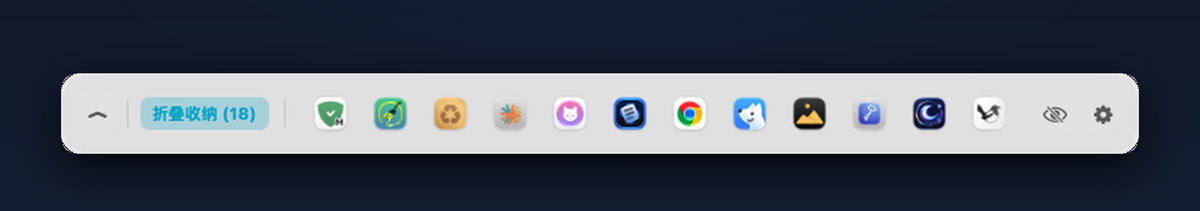
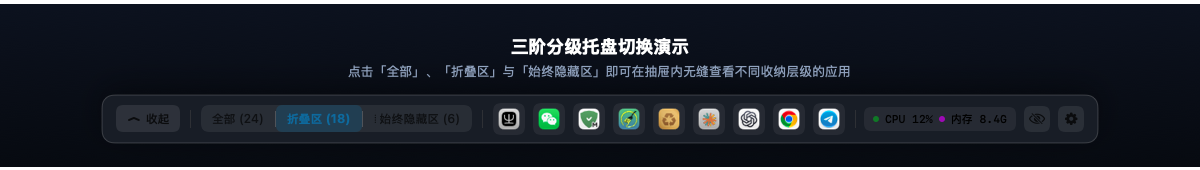
feat(barnest): accurately showcase 3-tier shelf switcher (All, Folded, Always Hidden) in visual guide

diff --git a/barnest/support.html b/barnest/support.html
@@ -73,15 +73,24 @@
             <p>BarNest lives directly in your menu bar. Simply hover your cursor over the nest divider arrow (<code>&lt;</code> or <code>&gt;</code>) to smoothly reveal hidden icons with fluid spring physics. Moving the cursor away collapses the drawer automatically. You can also press the global hotkey <kbd>⌥</kbd> <kbd>⌘</kbd> <kbd>B</kbd> at any time.</p>
             <figure class="guide-figure">
               <img src="images/guide-drawer-zoom.png" alt="BarNest Hover Drawer Unfolded" loading="lazy">
-              <figcaption>Floating drawer unfolded: Segmented tabs, organized icons, CPU/RAM monitor, and quick settings</figcaption>
+              <figcaption>Floating drawer unfolded: Integrated with All, Folded, and Always-Hidden segmented controller</figcaption>
             </figure>
           </article>
 
           <article class="guide-card">
             <span class="guide-badge">Step 2 · 3-Tier Hierarchy &amp; Shelf Tabs</span>
-            <h3>Categorize icons into Visible, Folded, and Always-Hidden</h3>
-            <p>Organize apps according to your workflow into three levels: <strong>Always Visible</strong> (stays on main status bar), <strong>Auto Hide / Folded</strong> (revealed on hover), and <strong>Always Hidden</strong> (tucked away into the deep drawer). Inside the drawer, switch between <code>[All]</code>, <code>[Folded]</code>, and <code>[Always Hidden]</code>, or press <kbd>⌥</kbd> <kbd>⇧</kbd> <kbd>⌘</kbd> <kbd>B</kbd> to toggle deep visibility.</p>
+            <h3>Seamlessly toggle between All, Folded, and Always-Hidden</h3>
+            <p>Organize apps according to your workflow into three distinct levels: <strong>Always Visible</strong> (stays on main status bar), <strong>Auto Hide / Folded</strong> (revealed on hover), and <strong>Always Hidden</strong> (tucked away into the deep drawer).</p>
+            <ul>
+              <li><strong>All (全部)</strong>: Aggregates and reveals all sheltered menu bar icons in one single place;</li>
+              <li><strong>Folded (折叠区)</strong>: Displays your frequently accessed hidden apps;</li>
+              <li><strong>Always Hidden (始终隐藏区)</strong>: Opens the isolated shelf for background daemons and low-frequency utilities, also accessible via <kbd>⌥</kbd> <kbd>⇧</kbd> <kbd>⌘</kbd> <kbd>B</kbd>.</li>
+            </ul>
             <figure class="guide-figure">
+              <img src="images/guide-shelf-tiers.png" alt="BarNest 3-Tier Shelf Switching Comparison" loading="lazy">
+              <figcaption>Real shelf tier switching: Tap All (24), Folded (18), or Always Hidden (6) to filter items dynamically</figcaption>
+            </figure>
+            <figure class="guide-figure" style="margin-top: 16px;">
               <img src="images/guide-preferences.png" alt="BarNest Preferences Icon Hierarchy" loading="lazy">
               <figcaption>Preferences Item Management: Assign items to Visible, Fold, or Hide with instant zero-flicker updates</figcaption>
             </figure>
@@ -154,15 +163,24 @@
             <p>BarNest 常驻在您的顶部状态栏中。将鼠标移动悬停在折叠箭头（<code>&lt;</code> 或 <code>&gt;</code>）上，隐藏图标立即随物理动效滑出；鼠标移开后自动隐匿。您也可以随时按下全局快捷键 <kbd>⌥</kbd> <kbd>⌘</kbd> <kbd>B</kbd> 极速呼出。</p>
             <figure class="guide-figure">
               <img src="images/guide-drawer-zoom-zh.png" alt="BarNest 悬停展开抽屉托盘示意图" loading="lazy">
-              <figcaption>悬浮抽屉原生展开态：包含分段标签、已收纳图标、CPU/内存监视与快速设置</figcaption>
+              <figcaption>原生悬浮抽屉展开态：完整集成「全部」、「折叠区」与「始终隐藏区」分段控制器</figcaption>
             </figure>
           </article>
 
           <article class="guide-card">
-            <span class="guide-badge">操作 2 · 三阶图标分级管理</span>
-            <h3>按需归类常驻、折叠收纳与始终隐藏</h3>
-            <p>根据您的使用习惯，将应用图标分为三级：<strong>常驻显示</strong>（留在主状态栏）、<strong>折叠收纳</strong>（随抽屉展开）与<strong>始终隐藏</strong>（沉淀于深层托盘，极少需要查看）。在展开抽屉托盘时，可直接点选 <code>[全部]</code>、<code>[折叠区]</code>、<code>[始终隐藏区]</code> 快速筛选，或按 <kbd>⌥</kbd> <kbd>⇧</kbd> <kbd>⌘</kbd> <kbd>B</kbd> 唤起深层托盘。</p>
+            <span class="guide-badge">操作 2 · 三阶图标分级与托盘切换</span>
+            <h3>自由切换「全部」、「折叠区」与「始终隐藏区」</h3>
+            <p>根据您的使用习惯，将应用图标分为三级：<strong>常驻显示</strong>（留在主状态栏）、<strong>折叠收纳</strong>（随抽屉展开）与<strong>始终隐藏</strong>（沉淀于深层托盘，极少需要查看）。</p>
+            <ul>
+              <li><strong>「全部」</strong>：聚合查看所有由 BarNest 纳管的收纳图标；</li>
+              <li><strong>「折叠区」</strong>：仅展示日常悬停展开的高频常用图标；</li>
+              <li><strong>「始终隐藏区」</strong>：直达深度隐藏的高级或后台静默工具，支持快捷键 <kbd>⌥</kbd> <kbd>⇧</kbd> <kbd>⌘</kbd> <kbd>B</kbd> 直接唤起。</li>
+            </ul>
             <figure class="guide-figure">
+              <img src="images/guide-shelf-tiers-zh.png" alt="BarNest 三阶分段切换实时效果演示" loading="lazy">
+              <figcaption>真实抽屉三段切换对比：点选「全部 (24)」、「折叠区 (18)」或「始终隐藏区 (6)」实时过滤对应应用</figcaption>
+            </figure>
+            <figure class="guide-figure" style="margin-top: 16px;">
               <img src="images/guide-preferences-zh.png" alt="BarNest 偏好设置分级管理示意图" loading="lazy">
               <figcaption>偏好设置图标管理：点选“常驻 / 折叠 / 隐藏”一键分级，零系统权限即刻生效</figcaption>
             </figure>
@@ -232,17 +250,17 @@
             <p>メニューバーの折りたたみ矢印（<code>&lt;</code> または <code>&gt;</code>）にカーソルを合わせるだけで、隠れたアイコンが滑らかに展開します。離れると自動収納。グローバルショートカット <kbd>⌥</kbd> <kbd>⌘</kbd> <kbd>B</kbd> でも瞬時に呼び出せます。</p>
             <figure class="guide-figure">
               <img src="images/guide-drawer-zoom.png" alt="BarNest ドロワー展開" loading="lazy">
-              <figcaption>展開されたフローティングドロワー：セグメント切り替え、CPU/メモリモニター、設定アイコン</figcaption>
+              <figcaption>展開されたフローティングドロワー：「すべて」「格納」「完全非表示」の3層切り替えに対応</figcaption>
             </figure>
           </article>
 
           <article class="guide-card">
-            <span class="guide-badge">操作 2 · 3階層のアイコン整理</span>
-            <h3>「常時表示」「自動格納」「完全非表示」に分類</h3>
-            <p>環境設定の「メニューバー項目」で各アプリの表示階層をワンクリックで設定可能。ドロワー内でもセグメントを切り替えて即座に目的のアイコンにアクセスできます。</p>
+            <span class="guide-badge">操作 2 · 3階層の切り替え</span>
+            <h3>「すべて」「折りたたみ」「完全非表示」を瞬時に切り替え</h3>
+            <p>ドロワー内でセグメントを切り替えて目的のアプリに素早くアクセス。環境設定で自由に各アプリの階層をカスタマイズできます。</p>
             <figure class="guide-figure">
-              <img src="images/guide-preferences.png" alt="BarNest 環境設定" loading="lazy">
-              <figcaption>環境設定：ワンクリックでアイコンの表示層をスマートに管理</figcaption>
+              <img src="images/guide-shelf-tiers.png" alt="BarNest 3階層切り替え" loading="lazy">
+              <figcaption>ドロワー内の3階層切り替え比較</figcaption>
             </figure>
           </article>
         </div>
@@ -282,17 +300,17 @@
             <p>메뉴 막대의 접기 아이콘(<code>&lt;</code> 또는 <code>&gt;</code>)에 마우스를 올리면 숨겨진 아이콘 서랍이 부드럽게 나타납니다. 언제든 글로벌 단축키 <kbd>⌥</kbd> <kbd>⌘</kbd> <kbd>B</kbd>로 빠르게 열고 닫을 수 있습니다.</p>
             <figure class="guide-figure">
               <img src="images/guide-drawer-zoom.png" alt="BarNest 서랍 펼침" loading="lazy">
-              <figcaption>플로팅 서랍 펼침 상태: 세그먼트 탭, 앱 아이콘, 시스템 리소스 모니터</figcaption>
+              <figcaption>플로팅 서랍 펼침: 전체(All), 접힘(Folded), 완전 숨김(Always Hidden) 3단계 탭 탑재</figcaption>
             </figure>
           </article>
 
           <article class="guide-card">
-            <span class="guide-badge">2단계 · 3단계 스마트 계층 분류</span>
-            <h3>항상 표시, 자동 접기, 완전 숨김</h3>
-            <p>환경설정에서 각 앱의 표시 계층을 손쉽게 설정하세요. 손쉬운 사용 권한 승인 없이도 즉각 안전하게 적용됩니다.</p>
+            <span class="guide-badge">2단계 · 3단계 스마트 계층 전환</span>
+            <h3>전체, 접기, 완전 숨김 영역 즉시 전환</h3>
+            <p>서랍 내에서 탭을 눌러 원하는 영역의 아이콘을 자유롭게 필터링하여 확인하세요.</p>
             <figure class="guide-figure">
-              <img src="images/guide-preferences.png" alt="BarNest 환경설정" loading="lazy">
-              <figcaption>환경설정: 3단계 계층 관리 및 노치 가림 방지</figcaption>
+              <img src="images/guide-shelf-tiers.png" alt="BarNest 3단계 전환 비교" loading="lazy">
+              <figcaption>서랍 내 3단계 계층 실시간 전환 비교</figcaption>
             </figure>
           </article>
         </div>
@@ -332,16 +350,16 @@
             <p>Fahren Sie mit der Maus über das Pfeilsymbol (<code>&lt;</code> oder <code>&gt;</code>) in der Menüleiste oder drücken Sie <kbd>⌥</kbd> <kbd>⌘</kbd> <kbd>B</kbd>, um versteckte Symbole sanft auszuklappen.</p>
             <figure class="guide-figure">
               <img src="images/guide-drawer-zoom.png" alt="BarNest Drawer" loading="lazy">
-              <figcaption>Schwebender Drawer mit Schnellübersicht und Systemmonitor</figcaption>
+              <figcaption>Schwebender Drawer mit 3-Stufen-Tabs: Alle, Ausgeblendet &amp; Dauerhaft versteckt</figcaption>
             </figure>
           </article>
           <article class="guide-card">
-            <span class="guide-badge">Schritt 2 · 3-Stufen-Hierarchie</span>
-            <h3>Symbole individuell organisieren</h3>
-            <p>Ordnen Sie Symbole in "Immer sichtbar", "Automatisch ausblenden" oder "Dauerhaft verstecken" ein.</p>
+            <span class="guide-badge">Schritt 2 · 3-Stufen-Hierarchie umschalten</span>
+            <h3>Einfaches Umschalten direkt im Drawer</h3>
+            <p>Wechseln Sie blitzschnell zwischen den verschiedenen Ebenen.</p>
             <figure class="guide-figure">
-              <img src="images/guide-preferences.png" alt="BarNest Einstellungen" loading="lazy">
-              <figcaption>Einstellungen: Intelligente Menüleistenverwaltung ohne Sonderberechtigungen</figcaption>
+              <img src="images/guide-shelf-tiers.png" alt="3-Stufen-Vergleich" loading="lazy">
+              <figcaption>Direkte Umschaltung der 3 Stufen im Drawer</figcaption>
             </figure>
           </article>
         </div>
@@ -381,16 +399,16 @@
             <p>Survolez la flèche (<code>&lt;</code> ou <code>&gt;</code>) ou appuyez sur <kbd>⌥</kbd> <kbd>⌘</kbd> <kbd>B</kbd> pour afficher instantanément vos icônes masquées.</p>
             <figure class="guide-figure">
               <img src="images/guide-drawer-zoom.png" alt="Tiroir BarNest" loading="lazy">
-              <figcaption>Tiroir flottant déplié : onglets, icônes rangées et moniteur système</figcaption>
+              <figcaption>Tiroir flottant : bascule immédiate entre Tous, Replié et Toujours masqué</figcaption>
             </figure>
           </article>
           <article class="guide-card">
             <span class="guide-badge">Étape 2 · Classement en 3 niveaux</span>
-            <h3>Visible, Masqué ou Toujours masqué</h3>
-            <p>Classez facilement vos applications dans les préférences sans aucune autorisation spéciale.</p>
+            <h3>Filtrage direct dans le tiroir</h3>
+            <p>Passez d'un niveau à l'autre en un seul clic.</p>
             <figure class="guide-figure">
-              <img src="images/guide-preferences.png" alt="Préférences BarNest" loading="lazy">
-              <figcaption>Préférences : organisation fluide des éléments de la barre de menus</figcaption>
+              <img src="images/guide-shelf-tiers.png" alt="Comparaison 3 niveaux" loading="lazy">
+              <figcaption>Comparaison en temps réel des 3 niveaux de classement</figcaption>
             </figure>
           </article>
         </div>
@@ -430,16 +448,16 @@
             <p>Pasa el puntero sobre la flecha (<code>&lt;</code> o <code>&gt;</code>) o pulsa <kbd>⌥</kbd> <kbd>⌘</kbd> <kbd>B</kbd> para ver los iconos ocultos al instante.</p>
             <figure class="guide-figure">
               <img src="images/guide-drawer-zoom.png" alt="Cajón flotante BarNest" loading="lazy">
-              <figcaption>Cajón desplegado con pestañas, iconos y monitor de recursos</figcaption>
+              <figcaption>Cajón con selector de 3 niveles: Todos, Plegados y Siempre ocultos</figcaption>
             </figure>
           </article>
           <article class="guide-card">
-            <span class="guide-badge">Paso 2 · Organización en 3 niveles</span>
-            <h3>Siempre visible, Ocultación y Siempre oculto</h3>
-            <p>Organiza tus aplicaciones favoritas desde Preferencias sin otorgar permisos especiales.</p>
+            <span class="guide-badge">Paso 2 · Organización y filtrado en 3 niveles</span>
+            <h3>Cambia de nivel con un solo toque</h3>
+            <p>Filtra instantáneamente los iconos directamente dentro del cajón.</p>
             <figure class="guide-figure">
-              <img src="images/guide-preferences.png" alt="Preferencias BarNest" loading="lazy">
-              <figcaption>Preferencias: Gestión rápida y segura de iconos en el sandbox de macOS</figcaption>
+              <img src="images/guide-shelf-tiers.png" alt="Comparativa de 3 niveles" loading="lazy">
+              <figcaption>Comparativa real de los 3 niveles dentro del cajón</figcaption>
             </figure>
           </article>
         </div>
@@ -479,16 +497,16 @@
             <p>Passe o mouse sobre a seta (<code>&lt;</code> ou <code>&gt;</code>) ou use <kbd>⌥</kbd> <kbd>⌘</kbd> <kbd>B</kbd> para abrir instantaneamente a gaveta de ícones.</p>
             <figure class="guide-figure">
               <img src="images/guide-drawer-zoom.png" alt="Gaveta BarNest" loading="lazy">
-              <figcaption>Gaveta flutuante expandida com abas e monitor de sistema</figcaption>
+              <figcaption>Gaveta flutuante com seletor de 3 níveis: Todos, Recolhidos e Sempre ocultos</figcaption>
             </figure>
           </article>
           <article class="guide-card">
-            <span class="guide-badge">Passo 2 · Hierarquia em 3 níveis</span>
-            <h3>Sempre visível, Recolhimento e Oculto</h3>
-            <p>Organize suas preferências de ícones diretamente nas configurações sem conceder permissões sensíveis.</p>
+            <span class="guide-badge">Passo 2 · Filtragem em 3 níveis</span>
+            <h3>Alterne entre áreas com um clique</h3>
+            <p>Filtre os ícones na gaveta sem complicações.</p>
             <figure class="guide-figure">
-              <img src="images/guide-preferences.png" alt="Preferências BarNest" loading="lazy">
-              <figcaption>Painel de preferências: personalização rápida em sandbox nativo</figcaption>
+              <img src="images/guide-shelf-tiers.png" alt="Comparação de 3 níveis" loading="lazy">
+              <figcaption>Comparação visual dos 3 níveis na gaveta</figcaption>
             </figure>
           </article>
         </div>
